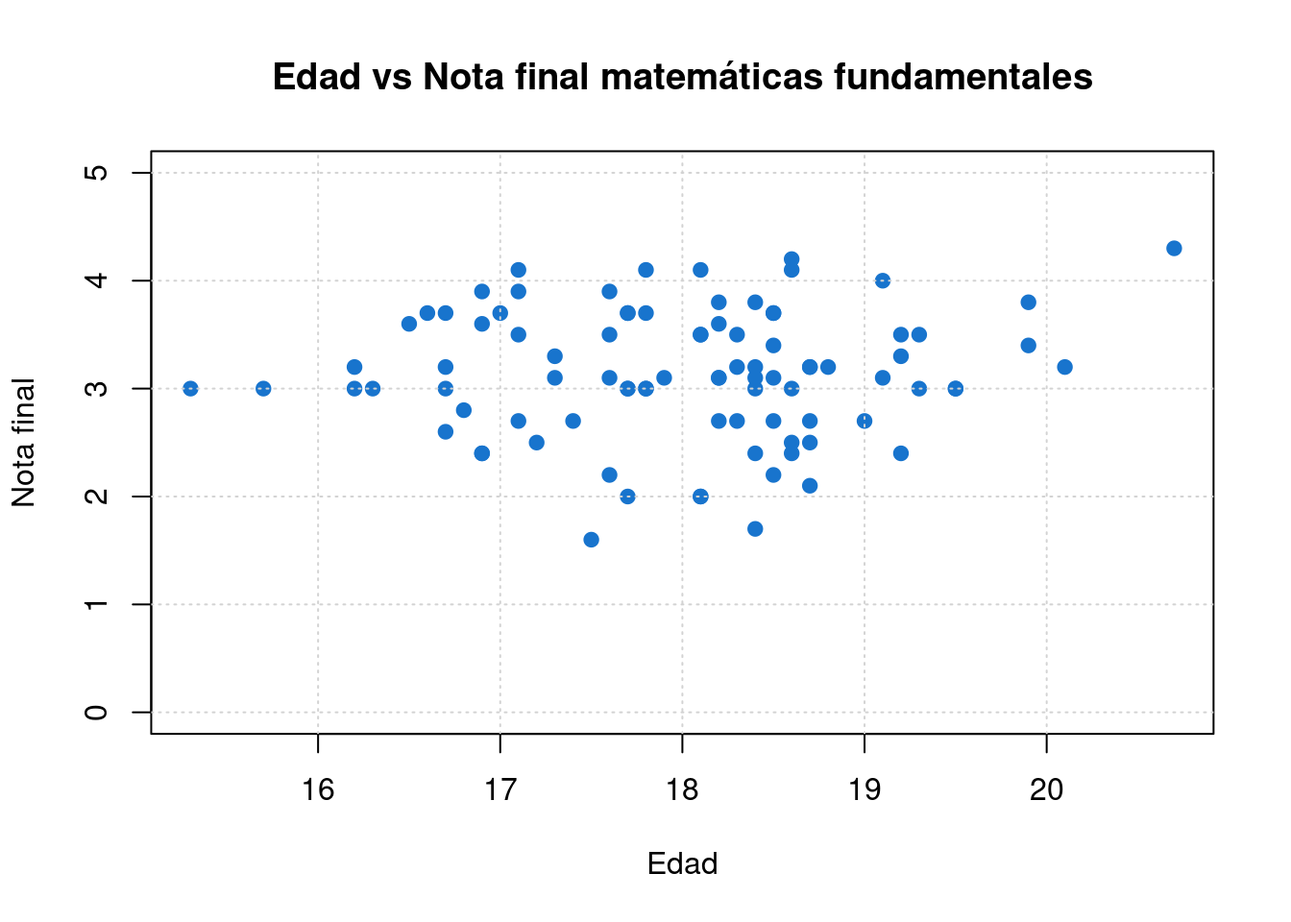
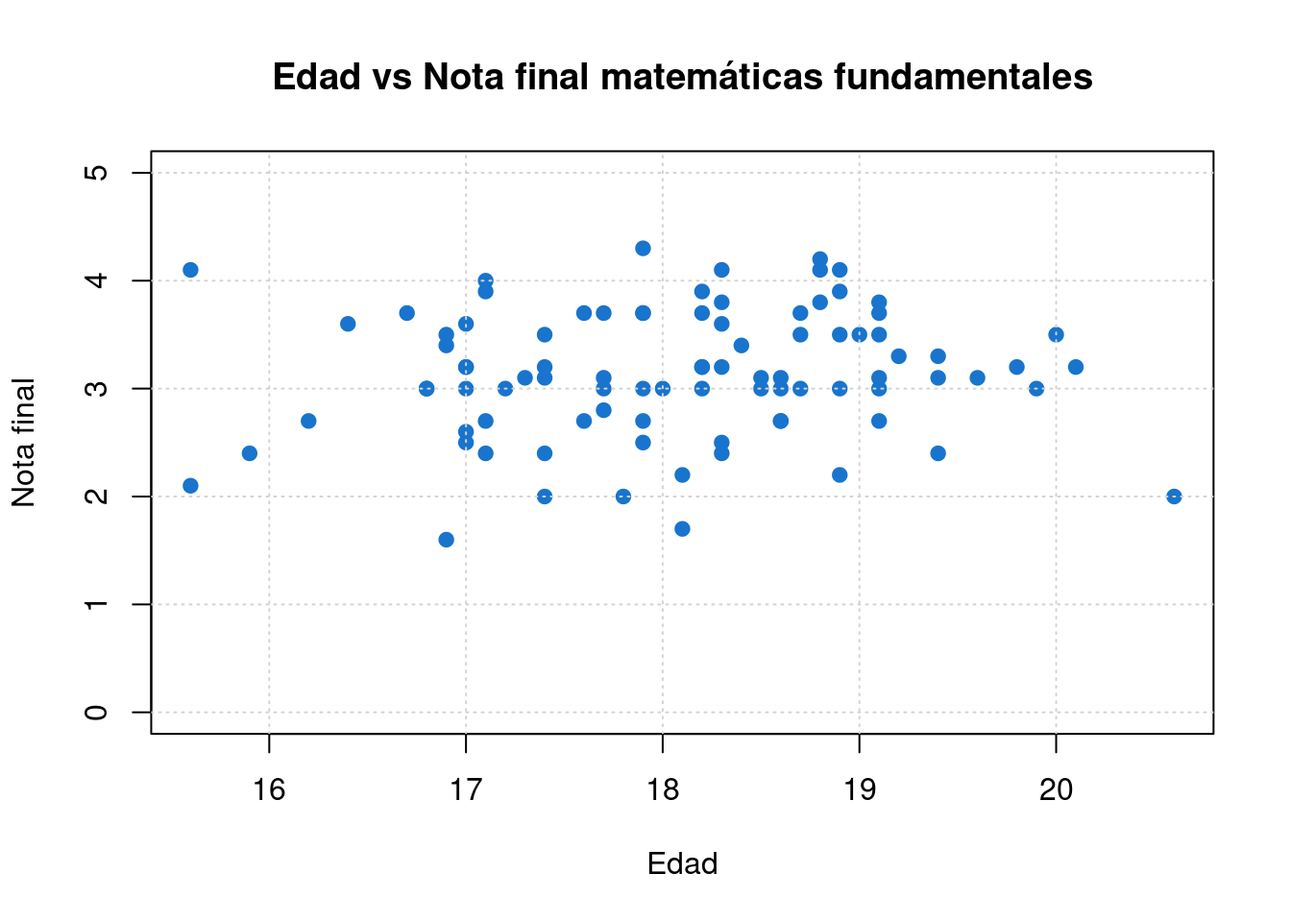
ajustes a imagen grupo3.png

diff --git a/recurso102.html b/recurso102.html
@@ -629,8 +629,8 @@ gráficos que nos permitan un fácil análisis de ellos</p>
 las selecciones de futbol asociadas a 6 confederaciones.</p>
 <pre class="r"><code>library(DT)
 DT::datatable(head(futbol, 218),fillContainer = FALSE, options = list(pageLength = 8))</code></pre>
-<div id="htmlwidget-fb36d27fdddb5b4df990" style="width:100%;height:auto;" class="datatables html-widget"></div>
-<script type="application/json" data-for="htmlwidget-fb36d27fdddb5b4df990">{"x":{"filter":"none","vertical":false,"fillContainer":false,"data":[["1","2","3","4","5","6","7","8","9","10","11","12","13","14","15","16","17","18","19","20","21","22","23","24","25","26","27","28","29","30","31","32","33","34","35","36","37","38","39","40","41","42","43","44","45","46","47","48","49","50","51","52","53","54","55","56","57","58","59","60","61","62","63","64","65","66","67","68","69","70","71","72","73","74","75","76","77","78","79","80","81","82","83","84","85","86","87","88","89","90","91","92","93","94","95","96","97","98","99","100","101","102","103","104","105","106","107","108","109","110","111","112","113","114","115","116","117","118","119","120","121","122","123","124","125","126","127","128","129","130","131","132","133","134","135","136","137","138","139","140","141","142","143","144","145","146","147","148","149","150","151","152","153","154","155","156","157","158","159","160","161","162","163","164","165","166","167","168","169","170","171","172","173","174","175","176","177","178","179","180","181","182","183","184","185","186","187","188","189","190","191","192","193","194","195","196","197","198","199","200","201","202","203","204","205","206","207","208","209","210","211","212","213","214","215","216","217","218"],[1,2,3,4,5,6,7,8,9,10,11,12,13,14,15,16,17,18,19,20,21,22,23,24,25,26,27,28,29,30,31,32,33,34,35,36,37,38,39,40,41,42,43,44,45,46,47,48,49,50,51,52,53,54,55,56,57,58,59,60,61,62,63,64,65,66,67,68,69,70,71,72,73,74,75,76,77,78,79,80,81,82,83,84,85,86,87,88,89,90,91,92,93,94,95,96,97,98,99,100,101,102,103,104,105,106,107,108,109,110,111,112,113,114,115,116,117,118,119,120,121,122,123,124,125,126,127,128,129,130,131,132,133,134,135,136,137,138,139,140,141,142,143,144,145,146,147,148,149,150,151,152,153,154,155,156,157,158,159,160,161,162,163,164,165,166,167,168,169,170,171,172,173,174,175,176,177,178,179,180,181,182,183,184,185,186,187,188,189,190,191,192,193,194,195,196,197,198,199,200,201,202,203,204,205,206,207,208,209,210,211,212,213,214,215,216,217,218],["Spain","Brazil","Belgium","France","England","Argentina","Portugal","Netherlands","Germany","Italy","Switzerland","Uruguay","Colombia","Denmark","Mexico","Chile","Croatia","Austria","Ecuador","Serbia","USA","Russia","Sweden","Poland","Czech Republic","Algeria","Venezuela","Peru","Iran","Morocco","Paraguay","Senegal","Japan","Wales","Norway","Turkey","Australia","Ghana","Romania","Ukraine","Greece","Tunisia","Ivory Coast","South Korea","Bosnia and Herzegovina","Egypt","Qatar","Hungary","Canada","Scotland","Israel","Basque Country","Slovenia","Uganda","Mali","Nigeria","Finland","Iraq","Costa Rica","Zimbabwe","Burkina Faso","Northern Ireland","Iceland","Rep of Ireland","Slovakia","Honduras","Bolivia","Uzbekistan","Saudi Arabia","Panama","Cameroon","Georgia","Albania","Haiti","Bahrain","Montenegro","China PR","Belarus","FYR Macedonia","Benin","Kosovo","Zambia","Bulgaria","Guinea","Namibia","Congo","South Africa","Jamaica","Gabon","Congo DR","Libya","Armenia","Togo","Tanzania","Guatemala","Kenya","New Zealand","Angola","Jordan","Cape Verde Islands","Madagascar","Curacao","El Salvador","Oman","Equatorial Guinea","Gambia","Malawi","Botswana","Luxembourg","Mozambique","Syria","Liberia","Kuwait","Sudan","Mauritania","United Arab Emirates","Trinidad and Tobago","Niger","Azerbaijan","Cuba","Kazakhstan","Rwanda","Lithuania","Cyprus","Estonia","Burundi","Sierra Leone","Bermuda","St. Kitts and Nevis","Lesotho","Comoros","Lebanon","Ethiopia","Guinea-Bissau","Vietnam","Nicaragua","Latvia","Dominican Republic","Palestine","Thailand","Central African Republic","North Korea","Moldova","Kyrgyzstan","Faroe Islands","Turkmenistan","Chad","Fiji","Martinique","Guyana","Belize","Suriname","Antigua and Barbuda","South Sudan","Solomon Islands","Zanzibar","Puerto Rico","New Caledonia","Malaysia","Malta","Barbados","Dominica","Swaziland","Eritrea","Tahiti","Philippines","India","Tajikistan","Singapore","Sao Tome and Principe","St. Vincent and the Grenadines","Hong Kong","Grenada","Vanuatu","Mauritius","St. Lucia","Yemen","Liechtenstein","Gibraltar","Afghanistan","Aruba","Djibouti","Indonesia","Myanmar","Andorra","Montserrat","Cayman Islands","Papua New Guinea","Somalia","Bahamas","Seychelles","Maldives","Bangladesh","French Guiana","Nepal","Mongolia","Chinese Taipei","San Marino","British Virgin Islands","Bonaire","Cambodia","Turks and Caicos Islands","Guam","Guadeloupe","Anguilla","Brunei","US Virgin Islands","Sri Lanka","Pakistan","Laos","Bhutan","St. Martin","Sint Maarten","Tuvalu","Timor-Leste","Macau","Samoa","Tonga"],["UEFA","CONMEBOL","UEFA","UEFA","UEFA","CONMEBOL","UEFA","UEFA","UEFA","UEFA","UEFA","CONMEBOL","CONMEBOL","UEFA","CONCACAF","CONMEBOL","UEFA","UEFA","CONMEBOL","UEFA","CONCACAF","UEFA","UEFA","UEFA","UEFA","CAF","CONMEBOL","CONMEBOL","AFC","CAF","CONMEBOL","CAF","AFC","UEFA","UEFA","UEFA","AFC","CAF","UEFA","UEFA","UEFA","CAF","CAF","AFC","UEFA","CAF","AFC","UEFA","CONCACAF","UEFA","UEFA","UEFA","UEFA","CAF","CAF","CAF","UEFA","AFC","CONCACAF","CAF","CAF","UEFA","UEFA","UEFA","UEFA","CONCACAF","CONMEBOL","AFC","AFC","CONCACAF","CAF","UEFA","UEFA","CONCACAF","AFC","UEFA","AFC","UEFA","UEFA","CAF","UEFA","CAF","UEFA","CAF","CAF","CAF","CAF","CONCACAF","CAF","CAF","CAF","UEFA","CAF","CAF","CONCACAF","CAF","OFC","CAF","AFC","CAF","CAF","CONCACAF","CONCACAF","AFC","CAF","CAF","CAF","CAF","UEFA","CAF","AFC","CAF","AFC","CAF","CAF","AFC","CONCACAF","CAF","UEFA","CONCACAF","UEFA","CAF","UEFA","UEFA","UEFA","CAF","CAF","CONCACAF","CONCACAF","CAF","CAF","AFC","CAF","CAF","AFC","CONCACAF","UEFA","CONCACAF","AFC","AFC","CAF","AFC","UEFA","AFC","UEFA","AFC","CAF","OFC","CONCACAF","CONCACAF","CONCACAF","CONCACAF","CONCACAF","CAF","OFC","CAF","CONCACAF","OFC","AFC","UEFA","CONCACAF","CONCACAF","CAF","CAF","OFC","AFC","AFC","AFC","AFC","CAF","CONCACAF","AFC","CONCACAF","OFC","CAF","CONCACAF","AFC","UEFA","UEFA","AFC","CONCACAF","CAF","AFC","AFC","UEFA","CONCACAF","CONCACAF","OFC","CAF","CONCACAF","CAF","AFC","AFC","CONCACAF","AFC","AFC","AFC","UEFA","CONCACAF","CONCACAF","AFC","CONCACAF","AFC","CONCACAF","CONCACAF","AFC","CONCACAF","AFC","AFC","AFC","AFC","CONCACAF","CONCACAF","OFC","AFC","AFC","OFC","OFC"],[3.54,3.04,2.96,2.9,2.7,2.54,2.7,2.69,3.04,2.52,2.52,2.36,2.17,2.12,2.34,2.22,2.42,2.11,2.24,2.08,2.04,2.18,1.97,1.92,1.96,2.03,1.87,1.89,1.78,2.04,1.8,1.65,1.86,1.65,1.99,1.88,1.92,1.54,1.88,1.67,1.5,1.56,1.62,1.51,1.74,1.55,1.75,1.54,1.82,1.46,1.72,1.63,1.4,1.58,1.26,1.77,1.61,1.39,1.49,1.6,1.38,1.37,1.52,1.26,1.53,1.56,1.57,1.47,1.56,1.3,1.19,1.27,1.32,1.47,1.24,1.23,1.2,1.34,1.3,1.14,1.33,1.46,1.2,1.27,0.96,1.13,1.35,1.32,1.16,1.28,1.24,1.48,1.32,1.21,1.25,1.11,1.26,1.07,0.93,1.04,1.3,1.29,1.05,1.08,1.06,1.18,0.66,0.77,1.12,1.12,1.36,1.05,1.05,0.96,1,1.04,1.09,1.05,0.82,0.89,0.98,0.69,1.03,1.01,0.88,0.88,1.08,1.19,1.15,0.79,1,0.62,0.84,0.9,0.68,0.88,0.92,1.01,0.78,0.9,1.03,0.87,0.76,0.85,0.86,0.87,0.85,0.67,0.94,1.13,0.79,0.76,1.09,0.73,0.69,0.49,0.73,0.69,0.76,0.7,0.54,0.55,0.56,0.79,0.81,0.72,0.54,0.71,0.65,0.79,0.7,0.34,0.68,0.64,0.7,0.64,0.51,0.6,0.49,0.53,0.64,0.64,0.62,0.57,0.28,0.81,0.4,0.6,0.55,0.73,0.41,0.41,0.26,0.52,0.21,0.25,0.45,0.24,0.42,0.37,0.28,0.68,0.51,0.2,0.35,0.21,0.38,0.2,0.2,0.21,0.22,0.23,0.21,0.38,0.33,0.2,0.2,0.2],[0.39,0.32,0.58,0.55,0.45,0.42,0.52,0.53,0.73,0.44,0.62,0.56,0.54,0.58,0.73,0.72,0.86,0.69,0.79,0.77,0.74,0.85,0.74,0.72,0.76,0.81,0.74,0.77,0.7,0.92,0.73,0.62,0.78,0.64,0.91,0.86,0.9,0.66,1,0.82,0.7,0.78,0.85,0.8,1.01,0.88,1.09,0.91,1.16,0.84,1.08,1,0.82,0.98,0.69,1.15,1.03,0.84,0.93,1.06,0.89,0.92,1.06,0.82,1.14,1.2,1.22,1.13,1.24,1,0.89,1,1.06,1.23,1,1.04,1.02,1.16,1.13,0.97,1.2,1.34,1.07,1.15,0.82,1,1.24,1.21,1.04,1.18,1.17,1.49,1.32,1.2,1.27,1.12,1.3,1.14,0.99,1.15,1.44,1.47,1.2,1.24,1.26,1.41,0.85,0.99,1.44,1.45,1.74,1.37,1.37,1.29,1.34,1.43,1.5,1.47,1.22,1.31,1.44,1.06,1.53,1.51,1.35,1.37,1.65,1.82,1.76,1.3,1.6,1.09,1.4,1.49,1.19,1.5,1.59,1.73,1.42,1.59,1.79,1.59,1.45,1.62,1.65,1.73,1.71,1.45,1.85,2.22,1.73,1.71,2.2,1.74,1.71,1.47,1.89,1.85,1.98,1.88,1.61,1.65,1.67,2.1,2.15,2.02,1.82,2.13,2.05,2.38,2.23,1.57,2.22,2.17,2.31,2.24,2.09,2.27,2.08,2.46,2.76,2.85,2.83,2.71,2.09,3.24,2.41,2.88,2.8,3.44,2.8,2.81,2.48,3.18,2.47,2.72,3.48,2.9,3.62,3.59,3.35,4.76,4.42,3.49,4.08,3.71,4.38,3.81,3.92,4.11,4.62,4.89,4.93,5.62,5.56,5.11,5.78,6.08],[93.99,92.22,87.71,87.64,87.44,86.59,86.2,86.07,86.05,86.04,82.57,81.8,79.63,78.1,77.92,76.47,76.37,75.41,75.28,73.37,73.19,73.07,72.21,71.67,71.49,71.42,70.38,69.91,69.77,69.26,69.26,69.2,69.17,68.73,68.56,67.81,67.34,66.08,64.55,64.53,64.12,63.55,62.71,61.9,61.29,60.6,59.93,59.84,59.71,59.71,59.39,59.32,58.87,58.85,58.82,58.73,58.39,58.09,58.04,57.58,56.74,55.7,55.68,55.62,54.08,53.21,53.13,52.97,52.47,52.02,51.99,51.42,51.04,50.56,50.49,49.31,49.21,49.19,48.8,48.62,48.1,48.09,48,48,47.83,47.82,47.7,47.69,47.6,47.34,46.61,45.34,45.31,45.28,44.7,44.4,44.18,42.82,42.64,42.17,42.16,41.53,41.27,41.19,40.12,40.04,38.22,38.1,38.03,37.79,37.65,37.46,37.45,36.91,36.91,36.24,35.92,35.69,34.73,34.58,34.35,34.3,34.08,33.86,33.74,33.29,32.95,32.69,32.67,32.21,32.05,31.7,31.68,31.61,31.55,30.87,30.44,30.13,29.82,29.77,29.55,28.99,28.87,28.08,27.7,26.68,26.54,26.35,26.34,25.06,24.84,24.52,24.48,23.16,22.71,21.39,21.11,20.92,20.71,20.58,20.53,20.29,20.28,19.77,19.56,19.31,17.9,17.67,17.47,16.48,16.4,16.04,16.04,15.99,15.5,15.12,14.29,14.03,13.79,11.07,10.68,10.03,9.93,9.91,9.71,9.65,9.43,9.16,8.97,7.5,7.04,7.01,6.73,6.57,6.12,5.41,4.58,4.55,3.88,3.5,3.44,2.75,2.48,2.47,2.29,2.13,1.93,1.87,1.71,1.48,0.98,0.81,0.74,0.7,0.64,0.6,0.34,0.26]],"container":"<table class=\"display\">\n  <thead>\n    <tr>\n      <th> <\/th>\n      <th>rank<\/th>\n      <th>name<\/th>\n      <th>confed<\/th>\n      <th>off<\/th>\n      <th>def<\/th>\n      <th>spi<\/th>\n    <\/tr>\n  <\/thead>\n<\/table>","options":{"pageLength":8,"columnDefs":[{"className":"dt-right","targets":[1,4,5,6]},{"orderable":false,"targets":0}],"order":[],"autoWidth":false,"orderClasses":false,"lengthMenu":[8,10,25,50,100]}},"evals":[],"jsHooks":[]}</script>
+<div id="htmlwidget-a376948fe03192317c6e" style="width:100%;height:auto;" class="datatables html-widget"></div>
+<script type="application/json" data-for="htmlwidget-a376948fe03192317c6e">{"x":{"filter":"none","vertical":false,"fillContainer":false,"data":[["1","2","3","4","5","6","7","8","9","10","11","12","13","14","15","16","17","18","19","20","21","22","23","24","25","26","27","28","29","30","31","32","33","34","35","36","37","38","39","40","41","42","43","44","45","46","47","48","49","50","51","52","53","54","55","56","57","58","59","60","61","62","63","64","65","66","67","68","69","70","71","72","73","74","75","76","77","78","79","80","81","82","83","84","85","86","87","88","89","90","91","92","93","94","95","96","97","98","99","100","101","102","103","104","105","106","107","108","109","110","111","112","113","114","115","116","117","118","119","120","121","122","123","124","125","126","127","128","129","130","131","132","133","134","135","136","137","138","139","140","141","142","143","144","145","146","147","148","149","150","151","152","153","154","155","156","157","158","159","160","161","162","163","164","165","166","167","168","169","170","171","172","173","174","175","176","177","178","179","180","181","182","183","184","185","186","187","188","189","190","191","192","193","194","195","196","197","198","199","200","201","202","203","204","205","206","207","208","209","210","211","212","213","214","215","216","217","218"],[1,2,3,4,5,6,7,8,9,10,11,12,13,14,15,16,17,18,19,20,21,22,23,24,25,26,27,28,29,30,31,32,33,34,35,36,37,38,39,40,41,42,43,44,45,46,47,48,49,50,51,52,53,54,55,56,57,58,59,60,61,62,63,64,65,66,67,68,69,70,71,72,73,74,75,76,77,78,79,80,81,82,83,84,85,86,87,88,89,90,91,92,93,94,95,96,97,98,99,100,101,102,103,104,105,106,107,108,109,110,111,112,113,114,115,116,117,118,119,120,121,122,123,124,125,126,127,128,129,130,131,132,133,134,135,136,137,138,139,140,141,142,143,144,145,146,147,148,149,150,151,152,153,154,155,156,157,158,159,160,161,162,163,164,165,166,167,168,169,170,171,172,173,174,175,176,177,178,179,180,181,182,183,184,185,186,187,188,189,190,191,192,193,194,195,196,197,198,199,200,201,202,203,204,205,206,207,208,209,210,211,212,213,214,215,216,217,218],["Spain","Brazil","Belgium","France","England","Argentina","Portugal","Netherlands","Germany","Italy","Switzerland","Uruguay","Colombia","Denmark","Mexico","Chile","Croatia","Austria","Ecuador","Serbia","USA","Russia","Sweden","Poland","Czech Republic","Algeria","Venezuela","Peru","Iran","Morocco","Paraguay","Senegal","Japan","Wales","Norway","Turkey","Australia","Ghana","Romania","Ukraine","Greece","Tunisia","Ivory Coast","South Korea","Bosnia and Herzegovina","Egypt","Qatar","Hungary","Canada","Scotland","Israel","Basque Country","Slovenia","Uganda","Mali","Nigeria","Finland","Iraq","Costa Rica","Zimbabwe","Burkina Faso","Northern Ireland","Iceland","Rep of Ireland","Slovakia","Honduras","Bolivia","Uzbekistan","Saudi Arabia","Panama","Cameroon","Georgia","Albania","Haiti","Bahrain","Montenegro","China PR","Belarus","FYR Macedonia","Benin","Kosovo","Zambia","Bulgaria","Guinea","Namibia","Congo","South Africa","Jamaica","Gabon","Congo DR","Libya","Armenia","Togo","Tanzania","Guatemala","Kenya","New Zealand","Angola","Jordan","Cape Verde Islands","Madagascar","Curacao","El Salvador","Oman","Equatorial Guinea","Gambia","Malawi","Botswana","Luxembourg","Mozambique","Syria","Liberia","Kuwait","Sudan","Mauritania","United Arab Emirates","Trinidad and Tobago","Niger","Azerbaijan","Cuba","Kazakhstan","Rwanda","Lithuania","Cyprus","Estonia","Burundi","Sierra Leone","Bermuda","St. Kitts and Nevis","Lesotho","Comoros","Lebanon","Ethiopia","Guinea-Bissau","Vietnam","Nicaragua","Latvia","Dominican Republic","Palestine","Thailand","Central African Republic","North Korea","Moldova","Kyrgyzstan","Faroe Islands","Turkmenistan","Chad","Fiji","Martinique","Guyana","Belize","Suriname","Antigua and Barbuda","South Sudan","Solomon Islands","Zanzibar","Puerto Rico","New Caledonia","Malaysia","Malta","Barbados","Dominica","Swaziland","Eritrea","Tahiti","Philippines","India","Tajikistan","Singapore","Sao Tome and Principe","St. Vincent and the Grenadines","Hong Kong","Grenada","Vanuatu","Mauritius","St. Lucia","Yemen","Liechtenstein","Gibraltar","Afghanistan","Aruba","Djibouti","Indonesia","Myanmar","Andorra","Montserrat","Cayman Islands","Papua New Guinea","Somalia","Bahamas","Seychelles","Maldives","Bangladesh","French Guiana","Nepal","Mongolia","Chinese Taipei","San Marino","British Virgin Islands","Bonaire","Cambodia","Turks and Caicos Islands","Guam","Guadeloupe","Anguilla","Brunei","US Virgin Islands","Sri Lanka","Pakistan","Laos","Bhutan","St. Martin","Sint Maarten","Tuvalu","Timor-Leste","Macau","Samoa","Tonga"],["UEFA","CONMEBOL","UEFA","UEFA","UEFA","CONMEBOL","UEFA","UEFA","UEFA","UEFA","UEFA","CONMEBOL","CONMEBOL","UEFA","CONCACAF","CONMEBOL","UEFA","UEFA","CONMEBOL","UEFA","CONCACAF","UEFA","UEFA","UEFA","UEFA","CAF","CONMEBOL","CONMEBOL","AFC","CAF","CONMEBOL","CAF","AFC","UEFA","UEFA","UEFA","AFC","CAF","UEFA","UEFA","UEFA","CAF","CAF","AFC","UEFA","CAF","AFC","UEFA","CONCACAF","UEFA","UEFA","UEFA","UEFA","CAF","CAF","CAF","UEFA","AFC","CONCACAF","CAF","CAF","UEFA","UEFA","UEFA","UEFA","CONCACAF","CONMEBOL","AFC","AFC","CONCACAF","CAF","UEFA","UEFA","CONCACAF","AFC","UEFA","AFC","UEFA","UEFA","CAF","UEFA","CAF","UEFA","CAF","CAF","CAF","CAF","CONCACAF","CAF","CAF","CAF","UEFA","CAF","CAF","CONCACAF","CAF","OFC","CAF","AFC","CAF","CAF","CONCACAF","CONCACAF","AFC","CAF","CAF","CAF","CAF","UEFA","CAF","AFC","CAF","AFC","CAF","CAF","AFC","CONCACAF","CAF","UEFA","CONCACAF","UEFA","CAF","UEFA","UEFA","UEFA","CAF","CAF","CONCACAF","CONCACAF","CAF","CAF","AFC","CAF","CAF","AFC","CONCACAF","UEFA","CONCACAF","AFC","AFC","CAF","AFC","UEFA","AFC","UEFA","AFC","CAF","OFC","CONCACAF","CONCACAF","CONCACAF","CONCACAF","CONCACAF","CAF","OFC","CAF","CONCACAF","OFC","AFC","UEFA","CONCACAF","CONCACAF","CAF","CAF","OFC","AFC","AFC","AFC","AFC","CAF","CONCACAF","AFC","CONCACAF","OFC","CAF","CONCACAF","AFC","UEFA","UEFA","AFC","CONCACAF","CAF","AFC","AFC","UEFA","CONCACAF","CONCACAF","OFC","CAF","CONCACAF","CAF","AFC","AFC","CONCACAF","AFC","AFC","AFC","UEFA","CONCACAF","CONCACAF","AFC","CONCACAF","AFC","CONCACAF","CONCACAF","AFC","CONCACAF","AFC","AFC","AFC","AFC","CONCACAF","CONCACAF","OFC","AFC","AFC","OFC","OFC"],[3.54,3.04,2.96,2.9,2.7,2.54,2.7,2.69,3.04,2.52,2.52,2.36,2.17,2.12,2.34,2.22,2.42,2.11,2.24,2.08,2.04,2.18,1.97,1.92,1.96,2.03,1.87,1.89,1.78,2.04,1.8,1.65,1.86,1.65,1.99,1.88,1.92,1.54,1.88,1.67,1.5,1.56,1.62,1.51,1.74,1.55,1.75,1.54,1.82,1.46,1.72,1.63,1.4,1.58,1.26,1.77,1.61,1.39,1.49,1.6,1.38,1.37,1.52,1.26,1.53,1.56,1.57,1.47,1.56,1.3,1.19,1.27,1.32,1.47,1.24,1.23,1.2,1.34,1.3,1.14,1.33,1.46,1.2,1.27,0.96,1.13,1.35,1.32,1.16,1.28,1.24,1.48,1.32,1.21,1.25,1.11,1.26,1.07,0.93,1.04,1.3,1.29,1.05,1.08,1.06,1.18,0.66,0.77,1.12,1.12,1.36,1.05,1.05,0.96,1,1.04,1.09,1.05,0.82,0.89,0.98,0.69,1.03,1.01,0.88,0.88,1.08,1.19,1.15,0.79,1,0.62,0.84,0.9,0.68,0.88,0.92,1.01,0.78,0.9,1.03,0.87,0.76,0.85,0.86,0.87,0.85,0.67,0.94,1.13,0.79,0.76,1.09,0.73,0.69,0.49,0.73,0.69,0.76,0.7,0.54,0.55,0.56,0.79,0.81,0.72,0.54,0.71,0.65,0.79,0.7,0.34,0.68,0.64,0.7,0.64,0.51,0.6,0.49,0.53,0.64,0.64,0.62,0.57,0.28,0.81,0.4,0.6,0.55,0.73,0.41,0.41,0.26,0.52,0.21,0.25,0.45,0.24,0.42,0.37,0.28,0.68,0.51,0.2,0.35,0.21,0.38,0.2,0.2,0.21,0.22,0.23,0.21,0.38,0.33,0.2,0.2,0.2],[0.39,0.32,0.58,0.55,0.45,0.42,0.52,0.53,0.73,0.44,0.62,0.56,0.54,0.58,0.73,0.72,0.86,0.69,0.79,0.77,0.74,0.85,0.74,0.72,0.76,0.81,0.74,0.77,0.7,0.92,0.73,0.62,0.78,0.64,0.91,0.86,0.9,0.66,1,0.82,0.7,0.78,0.85,0.8,1.01,0.88,1.09,0.91,1.16,0.84,1.08,1,0.82,0.98,0.69,1.15,1.03,0.84,0.93,1.06,0.89,0.92,1.06,0.82,1.14,1.2,1.22,1.13,1.24,1,0.89,1,1.06,1.23,1,1.04,1.02,1.16,1.13,0.97,1.2,1.34,1.07,1.15,0.82,1,1.24,1.21,1.04,1.18,1.17,1.49,1.32,1.2,1.27,1.12,1.3,1.14,0.99,1.15,1.44,1.47,1.2,1.24,1.26,1.41,0.85,0.99,1.44,1.45,1.74,1.37,1.37,1.29,1.34,1.43,1.5,1.47,1.22,1.31,1.44,1.06,1.53,1.51,1.35,1.37,1.65,1.82,1.76,1.3,1.6,1.09,1.4,1.49,1.19,1.5,1.59,1.73,1.42,1.59,1.79,1.59,1.45,1.62,1.65,1.73,1.71,1.45,1.85,2.22,1.73,1.71,2.2,1.74,1.71,1.47,1.89,1.85,1.98,1.88,1.61,1.65,1.67,2.1,2.15,2.02,1.82,2.13,2.05,2.38,2.23,1.57,2.22,2.17,2.31,2.24,2.09,2.27,2.08,2.46,2.76,2.85,2.83,2.71,2.09,3.24,2.41,2.88,2.8,3.44,2.8,2.81,2.48,3.18,2.47,2.72,3.48,2.9,3.62,3.59,3.35,4.76,4.42,3.49,4.08,3.71,4.38,3.81,3.92,4.11,4.62,4.89,4.93,5.62,5.56,5.11,5.78,6.08],[93.99,92.22,87.71,87.64,87.44,86.59,86.2,86.07,86.05,86.04,82.57,81.8,79.63,78.1,77.92,76.47,76.37,75.41,75.28,73.37,73.19,73.07,72.21,71.67,71.49,71.42,70.38,69.91,69.77,69.26,69.26,69.2,69.17,68.73,68.56,67.81,67.34,66.08,64.55,64.53,64.12,63.55,62.71,61.9,61.29,60.6,59.93,59.84,59.71,59.71,59.39,59.32,58.87,58.85,58.82,58.73,58.39,58.09,58.04,57.58,56.74,55.7,55.68,55.62,54.08,53.21,53.13,52.97,52.47,52.02,51.99,51.42,51.04,50.56,50.49,49.31,49.21,49.19,48.8,48.62,48.1,48.09,48,48,47.83,47.82,47.7,47.69,47.6,47.34,46.61,45.34,45.31,45.28,44.7,44.4,44.18,42.82,42.64,42.17,42.16,41.53,41.27,41.19,40.12,40.04,38.22,38.1,38.03,37.79,37.65,37.46,37.45,36.91,36.91,36.24,35.92,35.69,34.73,34.58,34.35,34.3,34.08,33.86,33.74,33.29,32.95,32.69,32.67,32.21,32.05,31.7,31.68,31.61,31.55,30.87,30.44,30.13,29.82,29.77,29.55,28.99,28.87,28.08,27.7,26.68,26.54,26.35,26.34,25.06,24.84,24.52,24.48,23.16,22.71,21.39,21.11,20.92,20.71,20.58,20.53,20.29,20.28,19.77,19.56,19.31,17.9,17.67,17.47,16.48,16.4,16.04,16.04,15.99,15.5,15.12,14.29,14.03,13.79,11.07,10.68,10.03,9.93,9.91,9.71,9.65,9.43,9.16,8.97,7.5,7.04,7.01,6.73,6.57,6.12,5.41,4.58,4.55,3.88,3.5,3.44,2.75,2.48,2.47,2.29,2.13,1.93,1.87,1.71,1.48,0.98,0.81,0.74,0.7,0.64,0.6,0.34,0.26]],"container":"<table class=\"display\">\n  <thead>\n    <tr>\n      <th> <\/th>\n      <th>rank<\/th>\n      <th>name<\/th>\n      <th>confed<\/th>\n      <th>off<\/th>\n      <th>def<\/th>\n      <th>spi<\/th>\n    <\/tr>\n  <\/thead>\n<\/table>","options":{"pageLength":8,"columnDefs":[{"className":"dt-right","targets":[1,4,5,6]},{"orderable":false,"targets":0}],"order":[],"autoWidth":false,"orderClasses":false,"lengthMenu":[8,10,25,50,100]}},"evals":[],"jsHooks":[]}</script>
 <p>portal FiveThirtyEight : <a href="https://data.fivethirtyeight.com/"
 class="uri">https://data.fivethirtyeight.com/</a></p>
 <p><br/> <br/> <br/></p>

diff --git a/recurso103.html b/recurso103.html
@@ -601,6 +601,384 @@ Unidad 1.3</strong></span></h3>
 
 
 <p><img src="img/banner1.png" /></p>
+<div id="introducción" class="section level2">
+<h2><strong>Introducción</strong></h2>
+<blockquote>
+<p>Una gráfica o una representación gráfica o un gráfico, es un tipo de
+representación de datos, generalmente cuantitativos, mediante recursos
+visuales (líneas, vectores, superficies o símbolos), para que se
+manifieste visualmente la relación matemática o correlación estadística
+que guardan entre sí.</p>
+</blockquote>
+<p>Wikipedia</p>
+</div>
+<div id="paquetes-de-r-para-gráficos" class="section level2">
+<h2><strong>Paquetes de R para gráficos</strong></h2>
+<p>R posee una serie de paquetes construido para la visualización de
+datos que hacen que tengan una excelente presentación. Empezando por
+funciones del núcleo base, hasta paquetes que elaboran gráficos
+interactivos</p>
+<p><img src="img/RStudio.jpeg" width="90">
+<img src="img/ggplot2.png" width="80">
+<img src="img/highcharter.png" width="80">
+<img src="img/shiny.png" width="80">
+<img src="img/plotly.png" width="80">
+<img src="img/dashboard.png" width="80"></p>
+<p>Elegir el gráfico adecuado es muy importante pues existen diferentes
+alternativos y se debe escoger el apropiado para representar los datos.
+El tipo de dato determina el tipo de grafico asi:</p>
+<table>
+<colgroup>
+<col width="23%" />
+<col width="21%" />
+<col width="55%" />
+</colgroup>
+<thead>
+<tr class="header">
+<th align="left">Tipo de variable</th>
+<th align="left">Escala</th>
+<th align="left">Gráfico</th>
+</tr>
+</thead>
+<tbody>
+<tr class="odd">
+<td align="left">Cualitativas</td>
+<td align="left"></td>
+<td align="left"></td>
+</tr>
+<tr class="even">
+<td align="left"></td>
+<td align="left">Nominal</td>
+<td align="left">torta</td>
+</tr>
+<tr class="odd">
+<td align="left"></td>
+<td align="left">Ordinal</td>
+<td align="left">barras</td>
+</tr>
+<tr class="even">
+<td align="left"></td>
+<td align="left"></td>
+<td align="left"></td>
+</tr>
+<tr class="odd">
+<td align="left">Cuantitativas</td>
+<td align="left">Intervalo-razón</td>
+<td align="left">diagrama de tallos y hojas</td>
+</tr>
+<tr class="even">
+<td align="left"></td>
+<td align="left"></td>
+<td align="left">histograma</td>
+</tr>
+<tr class="odd">
+<td align="left"></td>
+<td align="left"></td>
+<td align="left">diagrama de tallos y hojas</td>
+</tr>
+<tr class="even">
+<td align="left"></td>
+<td align="left"></td>
+<td align="left">diagrama de cajas</td>
+</tr>
+<tr class="odd">
+<td align="left"></td>
+<td align="left"></td>
+<td align="left">diagrama de densidad</td>
+</tr>
+<tr class="even">
+<td align="left"></td>
+<td align="left"></td>
+<td align="left">diagrama de puntos</td>
+</tr>
+<tr class="odd">
+<td align="left"></td>
+<td align="left"></td>
+<td align="left">diagrama de lineas</td>
+</tr>
+</tbody>
+</table>
+<div id="gráficos-variables-cualitativas-con-r-base"
+class="section level3">
+<h3><strong>Gráficos variables cualitativas con R base</strong></h3>
+<p>Gráfico de tortas</p>
+<pre class="r"><code>a=rep(&quot;Cultutal&quot;, 360145)
+b=rep(&quot;Pastoral&quot;, 61496)
+c=rep(&quot;Bienestar&quot;,49912)
+d=rep(&quot;Deportivo&quot;,11777)
+data=c(a,b,c,d)
+t=table(data)
+lbs=c(&quot;Cultural&quot;, &quot;Pastoral&quot;, &quot;Bienestar&quot;, &quot;Deportivo&quot;)
+pct=round(t/sum(t)*100)
+labs=paste(lbs, pct)
+labs=paste(labs, &quot;%&quot;, sep = &quot; &quot;) 
+pie(t, labels=labs, main=&quot; Participación eventos Medio Universitario&quot;,
+    col = paleta4)</code></pre>
+<p><img src="recurso103_files/figure-html/unnamed-chunk-1-1.png" width="672" /></p>
+</div>
+<div id="diagrama-de-barras" class="section level3">
+<h3><strong>Diagrama de barras</strong></h3>
+<pre class="r"><code>ev=c(4,  8, 12, 43, 32)
+names(ev)=c(&quot;Muy regular&quot;, &quot;Regular&quot;, &quot;Bueno&quot;, &quot;Muy bueno&quot;,&quot;Excelente&quot;)
+barplot(ev, col=c(&quot;#ff5b00&quot;,&quot;#dcf600&quot;,&quot;#7dbd00&quot;,&quot;#659cef&quot;,&quot;#2956b2&quot;), main = &quot;Evaluación proceso de inducción&quot;)</code></pre>
+<p><img src="recurso103_files/figure-html/unnamed-chunk-2-1.png" width="672" /></p>
+</div>
+<div id="diagrama-de-barras-dos-variables" class="section level3">
+<h3><strong>Diagrama de barras dos variables</strong></h3>
+<pre class="r"><code>counts &lt;- table(mtcars$vs, mtcars$gear); rownames(counts)=c(&quot;Montor en linea&quot;, &quot;Motor en V&quot;)
+barplot(counts, main=&quot;Numero de cambios adelante por Tipo de motor&quot;,  xlab=&quot;Numero de cambios adelante &quot;,col=c(&quot;#195e4b&quot;,&quot;#00da9d&quot;),
+  legend = rownames(counts))</code></pre>
+<p><img src="recurso103_files/figure-html/unnamed-chunk-3-1.png" width="672" /></p>
+</div>
+<div id="gráficas-variables-cuantitativas-con-r-base"
+class="section level3">
+<h3><strong>Gráficas variables cuantitativas con R base</strong></h3>
+</div>
+<div id="diagrama-de-árbol" class="section level3">
+<h3><strong>Diagrama de árbol</strong></h3>
+<pre class="r"><code>nf=c(4.1, 2.7, 3.1, 3.2, 3.0, 3.2, 2.0, 2.4, 1.6, 3.2, 3.1, 2.6, 2.0, 2.4, 2.8, 3.3, 4.0, 3.4, 3.0, 3.1, 2.7, 2.7, 3.0, 3.8, 3.2, 2.2, 3.5, 3.5, 3.8, 3.5, 3.9, 4.2, 4.3, 3.9, 3.2, 3.5, 3.5, 3.7, 4.1, 3.7, 3.5, 3.6, 3.2, 3.1, 3.4, 3.0, 3.0, 3.0, 2.7, 1.7, 3.6, 2.1, 2.4, 3.0, 3.1, 2.5, 2.5, 3.6, 2.2, 2.4, 3.1, 3.3, 2.7, 3.7, 3.0, 2.7, 3.0, 3.2, 3.1, 2.4, 3.0, 2.7, 2.5, 3.0, 3.0, 3.0, 3.2, 3.1, 3.8, 4.1, 3.7, 3.5, 3.0, 3.7, 3.7, 4.1, 3.7, 3.9, 3.7, 2.0)
+stem(nf)</code></pre>
+<pre><code>
+  The decimal point is at the |
+
+  1 | 67
+  2 | 00012244444
+  2 | 555677777778
+  3 | 0000000000000011111111222222223344
+  3 | 555555566677777777888999
+  4 | 0111123</code></pre>
+<p>Este diagrama ordena los datos de manera que se puede determinar
+tanto en mínimo (1.6) como el máximo (4.3) , además de visualizar donde
+están la mayor concentración de ellos.</p>
+</div>
+<div id="histograma" class="section level3">
+<h3><strong>Histograma</strong></h3>
+<pre class="r"><code>h1=hist(nf, main = &quot;Nota final matemáticas fundamentales&quot;, xlab = &quot;nota&quot;, ylab=&quot;frecuencias absolutas&quot;, labels=TRUE, col=c1, ylim = c(0,30))
+abline(v=3,col=&quot;#2956b2&quot;)</code></pre>
+<p><img src="recurso103_files/figure-html/unnamed-chunk-5-1.png" width="672" /></p>
+<p><br/><br/></p>
+</div>
+<div id="diagrama-de-densidad" class="section level3">
+<h3><strong>Diagrama de densidad</strong></h3>
+<pre class="r"><code>nf=c(4.1, 2.7, 3.1, 3.2, 3.0, 3.2, 2.0, 2.4, 1.6, 3.2, 3.1, 2.6, 2.0, 2.4, 2.8, 3.3, 4.0, 3.4, 3.0, 3.1, 2.7, 2.7, 3.0, 3.8, 3.2, 2.2, 3.5, 3.5, 3.8, 3.5, 3.9, 4.2, 4.3, 3.9, 3.2, 3.5, 3.5, 3.7, 4.1, 3.7, 3.5, 3.6, 3.2, 3.1, 3.4, 3.0, 3.0, 3.0, 2.7, 1.7, 3.6, 2.1, 2.4, 3.0, 3.1, 2.5, 2.5, 3.6, 2.2, 2.4, 3.1, 3.3, 2.7, 3.7, 3.0, 2.7, 3.0, 3.2, 3.1, 2.4, 3.0, 2.7, 2.5, 3.0, 3.0, 3.0, 3.2, 3.1, 3.8, 4.1, 3.7, 3.5, 3.0, 3.7, 3.7, 4.1, 3.7, 3.9, 3.7, 2.0)
+plot(density(nf), main=&quot;Distribucion de las notas de matematias fundamentales&quot;, col=c0, lwd=4)</code></pre>
+<p><img src="recurso103_files/figure-html/unnamed-chunk-6-1.png" width="672" /></p>
+<p><br/><br/></p>
+</div>
+<div id="diagrama-de-cajas" class="section level3">
+<h3><strong>Diagrama de cajas</strong></h3>
+<pre class="r"><code>nf=c(4.1, 2.7, 3.1, 3.2, 3.0, 3.2, 2.0, 2.4, 1.6, 3.2, 3.1, 2.6, 2.0, 2.4, 2.8, 3.3, 4.0, 3.4, 3.0, 3.1, 2.7, 2.7, 3.0, 3.8, 3.2, 2.2, 3.5, 3.5, 3.8, 3.5, 3.9, 4.2, 4.3, 3.9, 3.2, 3.5, 3.5, 3.7, 4.1, 3.7, 3.5, 3.6, 3.2, 3.1, 3.4, 3.0, 3.0, 3.0, 2.7, 1.7, 3.6, 2.1, 2.4, 3.0, 3.1, 2.5, 2.5, 3.6, 2.2, 2.4, 3.1, 3.3, 2.7, 3.7, 3.0, 2.7, 3.0, 3.2, 3.1, 2.4, 3.0, 2.7, 2.5, 3.0, 3.0, 3.0, 3.2, 3.1, 3.8, 4.1, 3.7, 3.5, 3.0, 3.7, 3.7, 4.1, 3.7, 3.9, 3.7, 2.0)
+boxplot(nf, main=&quot;Nota final matemáticas fundamentales&quot;,col=&quot;#6abce2&quot;, las=1)
+abline(h=3, col=&quot;red&quot;)</code></pre>
+<p><img src="recurso103_files/figure-html/unnamed-chunk-7-1.png" width="672" /></p>
+<p><br/><br/></p>
+</div>
+<div id="diagrama-de-cajas-1" class="section level3">
+<h3><strong>Diagrama de cajas</strong></h3>
+<pre class="r"><code>nf=c(4.1, 2.7, 3.1, 3.2, 3.0, 3.2, 2.0, 2.4, 1.6, 3.2, 3.1, 2.6, 2.0, 2.4, 2.8, 3.3, 4.0, 3.4, 3.0, 3.1, 2.7, 2.7, 3.0, 3.8, 3.2, 2.2, 3.5, 3.5, 3.8, 3.5, 3.9, 4.2, 4.3, 3.9, 3.2, 3.5, 3.5, 3.7, 4.1, 3.7, 3.5, 3.6, 3.2, 3.1, 3.4, 3.0, 3.0, 3.0, 2.7, 1.7, 3.6, 2.1, 2.4, 3.0, 3.1, 2.5, 2.5, 3.6, 2.2, 2.4, 3.1, 3.3, 2.7, 3.7, 3.0, 2.7, 3.0, 3.2, 3.1, 2.4, 3.0, 2.7, 2.5, 3.0, 3.0, 3.0, 3.2, 3.1, 3.8, 4.1, 3.7, 3.5, 3.0, 3.7, 3.7, 4.1, 3.7, 3.9, 3.7, 2.0)
+cc=c(20, 10, 20, 20, 20, 20, 20, 20, 20, 30, 20, 20, 20, 10, 30, 20, 20, 30, 20, 30, 30, 20, 10, 30, 20, 20, 30, 30, 10, 20, 10, 20, 20, 20, 10, 20, 10, 20, 20, 30, 30, 30, 10, 30, 20, 20, 20, 20, 20, 20, 10, 20, 30, 30, 10, 10, 10, 20, 10, 20, 10, 30, 20, 10, 20, 30, 10, 30, 30, 30, 20, 30, 30, 30, 30, 30, 30, 20, 10, 30, 10, 20, 20, 10, 20, 20, 20, 20, 10, 20)
+labs=c(&quot;Ing. de Sistemas&quot;,&quot;Ing. Industrial&quot;,&quot;Ing. Mecánica&quot;)
+boxplot((nf~cc),main=&quot;Nota final matemáticas fundamentales por carrera&quot;, 
+        col=c(&quot;#066d8d&quot;,&quot;#34b5aa&quot;,&quot;#ecbe14&quot;), names=labs, xlab = &quot;carrera&quot;, ylab = &quot;nota&quot;)
+abline(h=3, col=&quot;red&quot;); abline(h=4, col=&quot;blue&quot;)</code></pre>
+<p><img src="recurso103_files/figure-html/unnamed-chunk-8-1.png" width="672" /></p>
+<p><br/><br/></p>
+</div>
+<div id="diagrama-de-dispersión" class="section level3">
+<h3><strong>Diagrama de dispersión</strong></h3>
+<pre class="r"><code>ed=round(rnorm(90,18,1),1)
+plot(ed,nf, main=&quot;Edad vs Nota final matemáticas fundamentales&quot;, ylim = c(0,5), xlab = &quot;Edad&quot;, ylab = &quot;Nota final&quot;,col=&quot;dodgerblue3&quot;,pch=19)
+grid()</code></pre>
+<p><img src="recurso103_files/figure-html/unnamed-chunk-9-1.png" width="672" /></p>
+<p><br/><br/></p>
+</div>
+<div id="gráfica-de-series-de-tiempo" class="section level3">
+<h3><strong>Gráfica de series de tiempo</strong></h3>
+<pre class="r"><code>plot(AirPassengers, main=&quot;Numero de pasajeros por mes&quot;, col=&quot;dodgerblue3&quot;, lwd = 3)</code></pre>
+<p><img src="recurso103_files/figure-html/unnamed-chunk-10-1.png" width="672" /></p>
+<p><br/><br/></p>
+</div>
+<div id="resumen" class="section level3">
+<h3><strong>Resumen</strong></h3>
+<pre class="r"><code>x=rnorm(100,100,20)
+y=rnorm(100,100,25)
+z=rbinom(100,4,0.30)
+t=1:100
+par(mfrow=c(2, 2))
+pie(table(z))
+barplot(table(z))
+stem(x)
+hist(x)
+boxplot(x)
+plot(x,y)
+plot(t,y, type=&quot;l&quot;)
+plot(density(x))
+par(mfrow=c(1, 1))</code></pre>
+<p><br/><br/><br/></p>
+</div>
+</div>
+<div id="gráficos-con-ggplot2" class="section level2">
+<h2><strong>Gráficos con ggplot2</strong></h2>
+<p><img src="img/ge_themes.png" /></p>
+<ul>
+<li><p><strong>Data</strong>: capa de los datos</p></li>
+<li><p><strong>Aesthetics</strong>: capa estética
+(<strong>aes</strong>), definimos las variables a utilizar en el
+gráfico</p></li>
+<li><p><strong>Geometries</strong>: capa de geometrías, se define el
+tipo de gráfica a realizar</p></li>
+<li><p><strong>Facets</strong>: capa de facetas, permite detallar la
+gráfica por categorías</p></li>
+<li><p><strong>Statistics</strong>: capa de estadística, permite agregar
+modelos</p></li>
+<li><p><strong>Coordinates</strong>: capa de coordenadas, permite
+ajustar las escalas de los ejes</p></li>
+<li><p><strong>Theme</strong>: capas de características del gráfico que
+no dependen de los datos</p></li>
+</ul>
+<p><br/><br/></p>
+<p><a
+href="https://rstudio.com/wp-content/uploads/2015/03/ggplot2-cheatsheet.pdf">Visualizacion
+de datos con ggplot2</a></p>
+<pre class="r"><code>library(readr)
+library(ggplot2)
+clasificacion=read.csv(&quot;data/spi_global_rankings_intl.csv&quot;)
+ggplot(clasificacion, aes(x=off , y=def))</code></pre>
+<p><img src="recurso103_files/figure-html/unnamed-chunk-12-1.png" width="672" /></p>
+<pre class="r"><code>ggplot(clasificacion, aes(x=off , y=def))+
+  geom_point()</code></pre>
+<p><img src="recurso103_files/figure-html/unnamed-chunk-13-1.png" width="672" /></p>
+<pre class="r"><code>ggplot(clasificacion, aes(x=off , y=def))+
+  geom_point()</code></pre>
+<p><img src="recurso103_files/figure-html/unnamed-chunk-14-1.png" width="672" /></p>
+<table>
+<colgroup>
+<col width="23%" />
+<col width="24%" />
+<col width="25%" />
+<col width="26%" />
+</colgroup>
+<tbody>
+<tr class="odd">
+<td align="left">geo_point()</td>
+<td align="left">geom_bar()</td>
+<td align="left">geom_col()</td>
+<td align="left">stat_count()</td>
+</tr>
+<tr class="even">
+<td align="left">geom_boxplot()</td>
+<td align="left">stat_boxplot()</td>
+<td align="left">geom_density()</td>
+<td align="left">stat_density()</td>
+</tr>
+<tr class="odd">
+<td align="left">geom_histogram()</td>
+<td align="left">geom_violin()</td>
+<td align="left"></td>
+<td align="left"></td>
+</tr>
+</tbody>
+</table>
+<pre class="r"><code>ggplot(clasificacion, aes(x=off , y=def))+
+  geom_point()+
+  facet_wrap(~ confed)</code></pre>
+<p><img src="recurso103_files/figure-html/unnamed-chunk-15-1.png" width="672" /></p>
+<pre class="r"><code>ggplot(clasificacion, aes(x=off , y=def))+  geom_point()+
+  facet_wrap(~ confed)+ stat_smooth(method = &quot;loess&quot; , formula =y ~ x)</code></pre>
+<p><img src="recurso103_files/figure-html/unnamed-chunk-16-1.png" width="672" /></p>
+<pre class="r"><code>ggplot(clasificacion, aes(x=off , y=def))+  geom_point()+  facet_wrap(~ confed)+ stat_smooth(method = &quot;loess&quot; , formula =y ~ x)+
+    coord_cartesian(ylim = c(0, 10))</code></pre>
+<p><img src="recurso103_files/figure-html/unnamed-chunk-17-1.png" width="672" /></p>
+<hr />
+<pre class="r"><code>library(ggplot2)
+data=data.frame(carrera=c(&quot;biologia&quot;,&quot;biomedica&quot;,&quot;civil&quot;,&quot;electronica&quot;,&quot;mecanica&quot;,  &quot;sistemas&quot;),frecuencia=c(8, 9,10,2, 3,7))
+
+ggplot(data, aes(x=carrera, y=frecuencia)) +
+  geom_bar(stat=&quot;identity&quot;, fill=&quot;#0d3b66&quot;)+
+  geom_text(aes(label=frecuencia), vjust=2.5, color=&quot;white&quot;, size=7)+
+  theme_minimal()</code></pre>
+<p><img src="recurso103_files/figure-html/unnamed-chunk-18-1.png" width="672" /></p>
+<pre class="r"><code>library(ggplot2)
+ggplot(mtcars, aes(x=mpg, y=wt, colour = cyl)) + 
+  geom_point()</code></pre>
+<p><img src="recurso103_files/figure-html/unnamed-chunk-19-1.png" width="672" /></p>
+<pre class="r"><code>ggplot(iris, aes(Sepal.Length)) +
+       geom_histogram(bins = 7,fill=&quot;#69b3a2&quot;, color=&quot;#e9ecef&quot;, alpha=0.9)+
+       theme_minimal() +
+       labs(x = &quot;cm&quot;, y = &quot;frecuencia absoluta&quot;) +
+       ggtitle(&quot;Longitud del sepalo&quot;)</code></pre>
+<p><img src="recurso103_files/figure-html/unnamed-chunk-20-1.png" width="672" /></p>
+<pre class="r"><code>ggplot(iris, aes(x=Sepal.Length, y=Species)) +
+  geom_boxplot(fill=c(&quot;#faf0ca&quot;,&quot;#f4d35e&quot;,&quot;#ee964d&quot;),  # color de relleno
+               color=&quot;#0d3b66&quot;,    # color de lineas
+               alpha=0.5)+
+  geom_point(color=&quot;#f95738&quot;,alpha=0.9)     # color puntos</code></pre>
+<p><img src="recurso103_files/figure-html/unnamed-chunk-21-1.png" width="672" /></p>
+</div>
+<div id="gráficos-con-gganimate" class="section level2">
+<h2><strong>Gráficos con gganimate</strong></h2>
+<pre class="r"><code>library(gapminder) # paquete contiene data Gapminder
+library(gganimate) # paquete para animacion grafica
+
+ggplot(gapminder, aes(gdpPercap, lifeExp, size = pop, colour = country)) +
+  geom_point(alpha = 0.7, show.legend = FALSE) +
+  scale_colour_manual(values = country_colors) +
+  scale_size(range = c(2, 12)) +
+  scale_x_log10() +
+  facet_wrap(~continent) +
+  # especificación del la transición animada - gganimate
+  labs(title = &#39;AñoYear: {frame_time}&#39;, x = &#39;GDP per capita&#39;, y = &#39;life expectancy&#39;) +
+  transition_time(year) +
+  ease_aes(&#39;linear&#39;)</code></pre>
+<p><a href="https://gganimate.com/"
+class="uri">https://gganimate.com/</a></p>
+<p><a href="https://rafalab.github.io/dslibro/ggplot2.html">Anàlisis de
+datos con R Cap,7 ggplot2</a><br/> <a
+href="https://rstudio.com/wp-content/uploads/2015/03/ggplot2-cheatsheet.pdf">ggplot2
+resumen</a></p>
+</div>
+<div id="graficos-con-highcharter" class="section level2">
+<h2><strong>Graficos con highcharter</strong></h2>
+<p><a href="https://jkunst.com/highcharter/"
+class="uri">https://jkunst.com/highcharter/</a></p>
+<p><a
+href="https://rstudio-pubs-static.s3.amazonaws.com/320413_6ab300527e8548b1a3cbd0d4c6200fcc.html"
+class="uri">https://rstudio-pubs-static.s3.amazonaws.com/320413_6ab300527e8548b1a3cbd0d4c6200fcc.html</a></p>
+</div>
+<div id="graficos-con-plotly" class="section level2">
+<h2><strong>Graficos con plotly</strong></h2>
+<p><a href="https://plotly.com/r/"
+class="uri">https://plotly.com/r/</a></p>
+<p><a href="https://plotly-r.com/"
+class="uri">https://plotly-r.com/</a></p>
+</div>
+<div id="graficos-con-shiny" class="section level2">
+<h2><strong>Graficos con Shiny</strong></h2>
+<ul>
+<li><p><a
+href="https://shiny.rstudio.com/gallery/genome-browser.html">Genoma
+humano</a></p></li>
+<li><p><a href="https://gallery.shinyapps.io/087-crandash/">Paquetes de
+R</a></p></li>
+<li><p><a href="https://shiny.rstudio.com/gallery/">Galeria</a></p></li>
+</ul>
+<div id="rmarkdown" class="section level3">
+<h3><strong>RMarkdown</strong></h3>
+<p><a
+href="https://rstudio.com/wp-content/uploads/2015/02/rmarkdown-cheatsheet.pdf">RMarkdown
+resumen</a><br/></p>
+<p><a href="https://rpubs.com/joscani/flexdashboard_examples">R
+flexdashboard - ejemplo</a><br/> <a
+href="https://geoprocesamiento-2020i.github.io/tutorial-flexdashboard/">R
+flexdashboard - implementaciòn</a></p>
+<p><img src="img/pujcali.jpeg" /></p>
+<p>Una imagen dice mas que mil palabras…</p>
+<p>Daniel Enrique González Gómez</p>
+<p>Imagen tomada de :<a
+href="https://javerianacali.edu.co/noticias/la-javeriana-bogota-y-cali-1-de-colombia"
+class="uri">https://javerianacali.edu.co/noticias/la-javeriana-bogota-y-cali-1-de-colombia</a></p>
+</div>
+</div>
 
 
 
